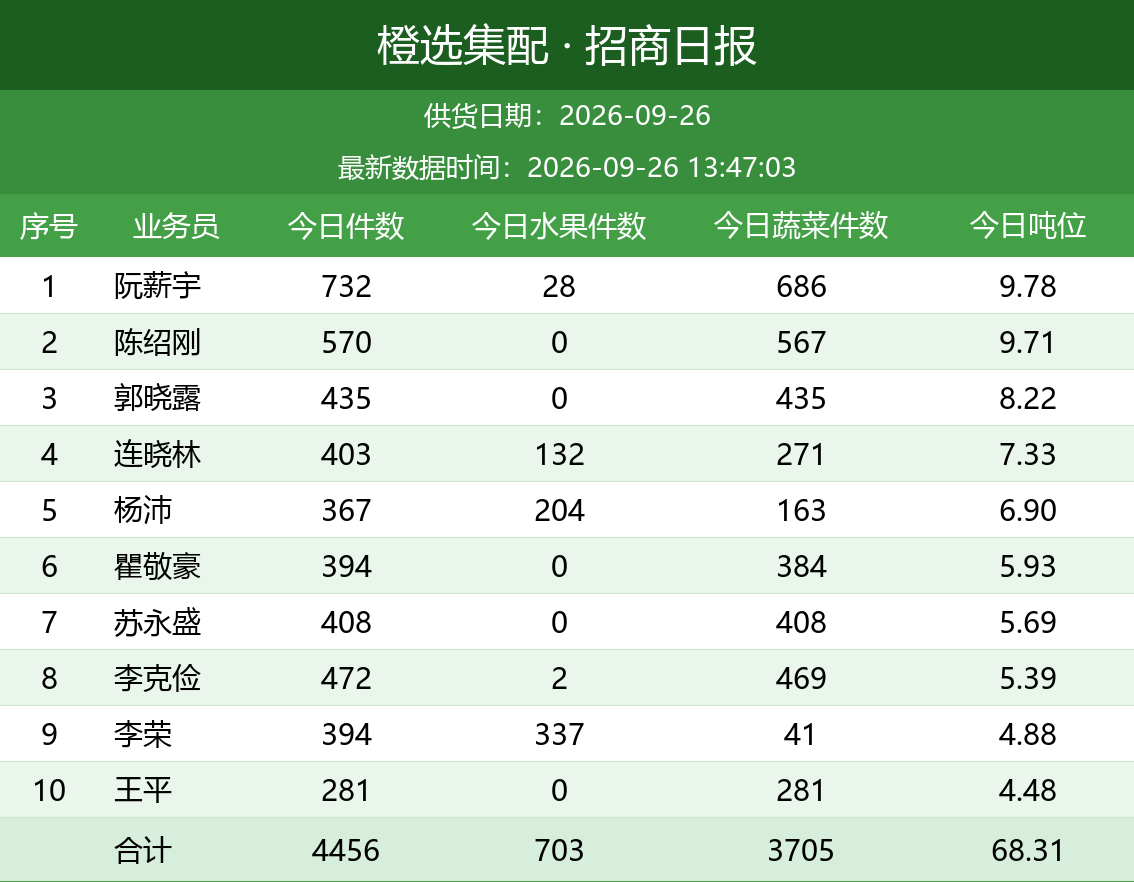
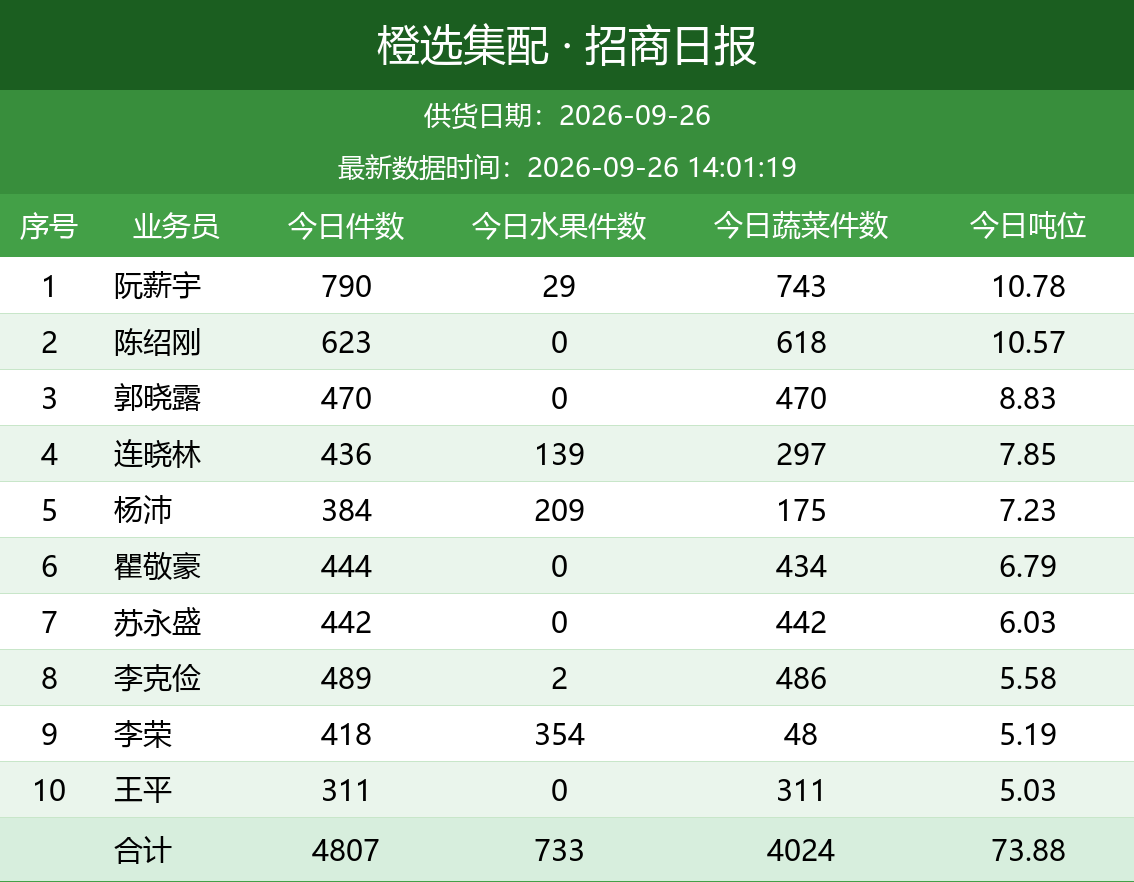
自动更新日报图片

diff --git a/daily_report/index.html b/daily_report/index.html
@@ -11,7 +11,7 @@ img { max-width: 100%; border: 1px solid #e5e5e5; margin-bottom: 24px; display: 
 </style>
 </head>
 <body>
-<h1>橙选集配日报图片（20260926_134902）</h1>
+<h1>橙选集配日报图片（20260926_140319）</h1>
 <img src="bd_latest.png" alt="BD 日报">
 <img src="wh_latest.png" alt="城市仓日报">
 <img src="zs_latest.png" alt="招商日报">
